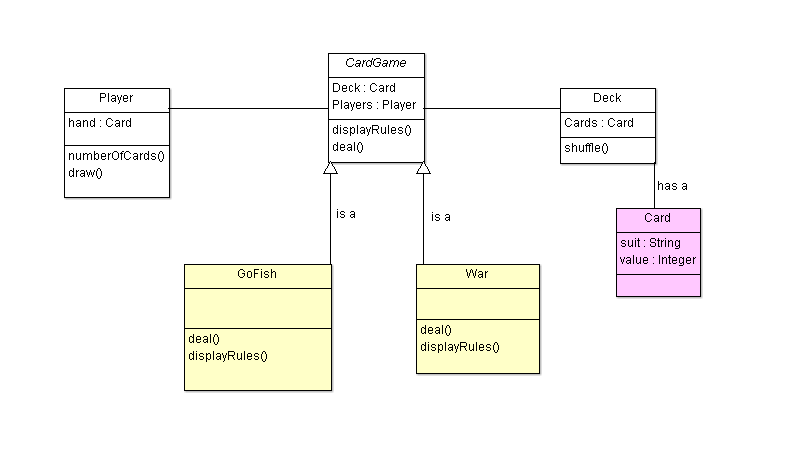
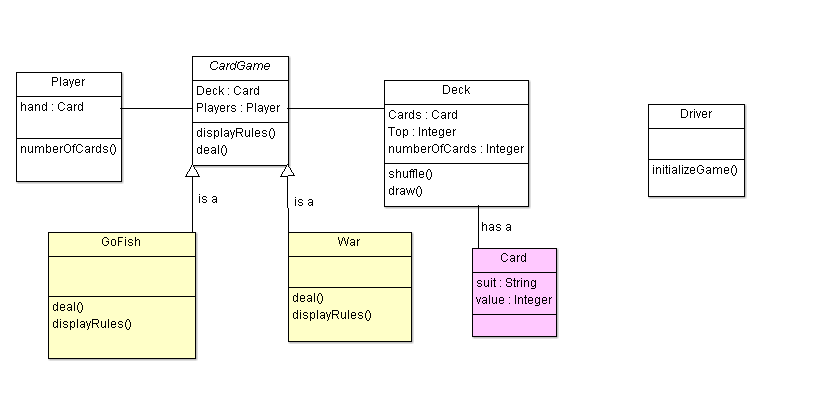
Created base of project

diff --git a/src/Deck.java b/src/Deck.java
@@ -1,0 +1,24 @@
+public class Deck {
+	
+	int numberOfCards = 52;
+	int topOfDeck = 0;
+	Card cards[];
+	
+	Deck() {
+		// Make new stack of cards
+		cards = new Card[numberOfCards];
+		
+		// Create deck
+		// Give all cards a suit/value
+		// Shuffle the deck
+	}
+	
+	public void shuffle()
+	{
+	}
+	
+	public Card draw() {
+		return cards[topOfDeck];
+	}
+	
+}

diff --git a/src/CardGame.java b/src/CardGame.java
@@ -1,5 +1,9 @@
 public abstract class CardGame {
 
+	Deck cards;
+	Player players;
 	
-
+	public abstract void displayRules();
+	public void deal() {}
+	
 }

diff --git a/src/Player.java b/src/Player.java
@@ -1,0 +1,9 @@
+
+public class Player {
+
+	Card hand;
+	
+	// Displays hand of cards
+	void cardsInHand() {}
+	
+}

diff --git a/src/GoFish.java b/src/GoFish.java
@@ -1,0 +1,6 @@
+
+public class GoFish extends CardGame {
+
+	public void displayRules() {}
+	
+}

diff --git a/src/War.java b/src/War.java
@@ -1,0 +1,6 @@
+
+public class War extends CardGame {
+	
+	public void displayRules(){}
+
+}

diff --git a/src/Card.java b/src/Card.java
@@ -1,0 +1,6 @@
+public class Card {
+
+	String suit;
+	int value;
+	
+}

diff --git a/src/Driver.java b/src/Driver.java
@@ -1,0 +1,3 @@
+public class Driver {
+
+}
